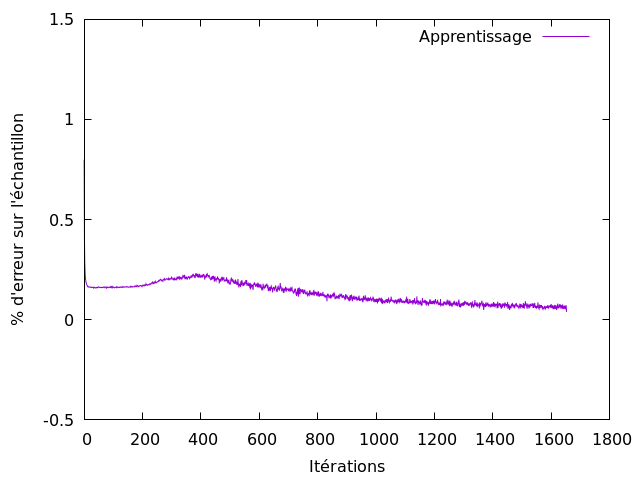
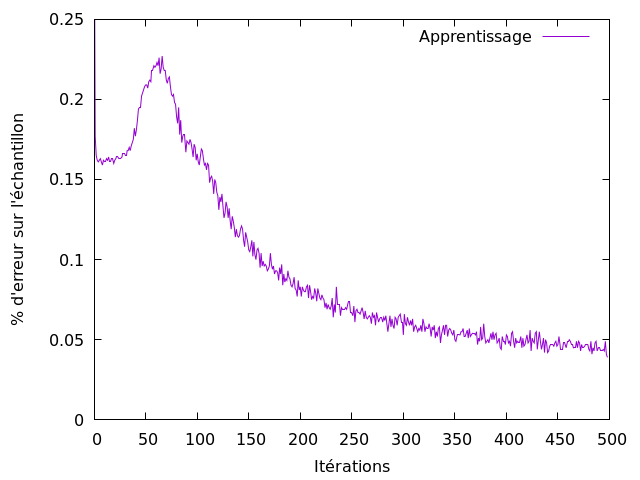
Optimizations and tweaking

diff --git a/ex4/main.c b/ex4/main.c
@@ -4,7 +4,7 @@
 #include "mnist_data_handler.h"
 #include "neural_network.h"
 
-#define SAMPLING_SIZE 100
+#define SAMPLING_SIZE 600
 
 size_t get_max_index(const float *array, const size_t array_size)
 {
